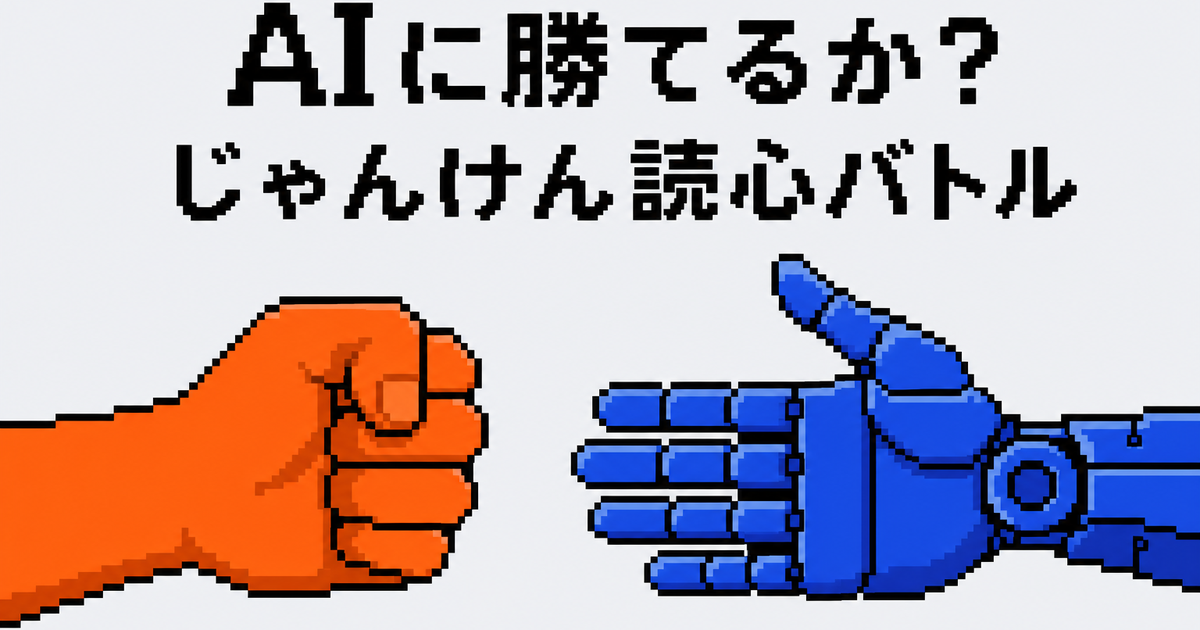
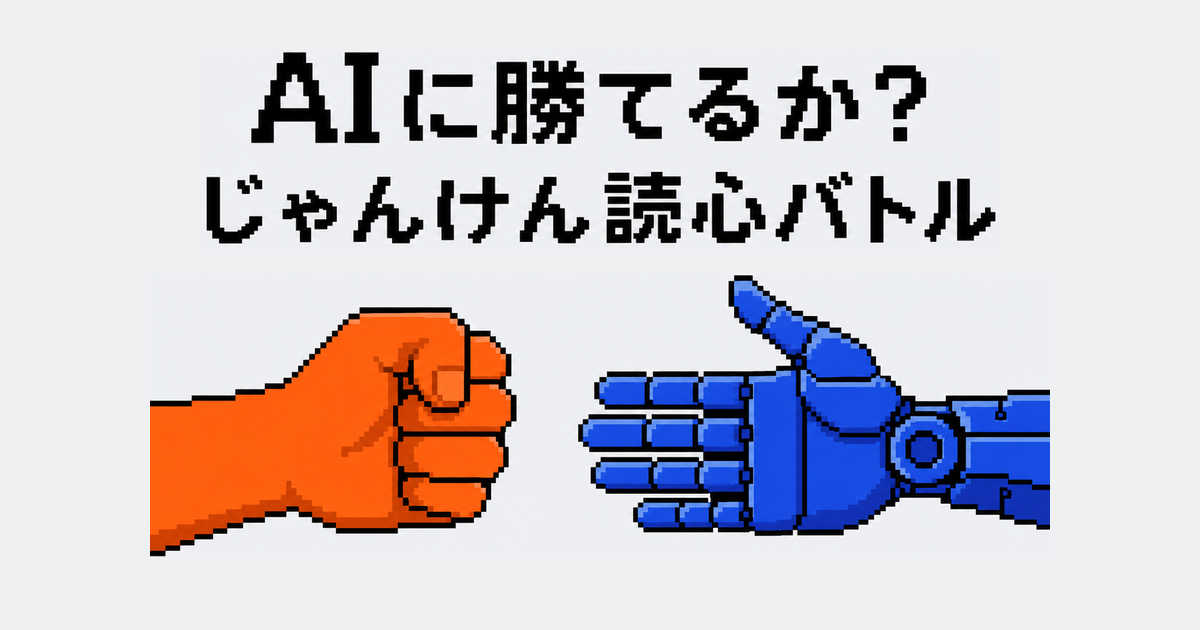
OGP画像の要素配置に安全マージンを確保しSNSでの切れを防止
- タイトル/サブタイトルと拳・ロボットハンドを縮小・中央寄せで再構成
- 上下左右それぞれ画像サイズの8%(上下50px/左右96px)の
  安全マージン内にすべての要素が収まるよう配置
  (実測: 左右150px、上52px、下73px)
- サイズは1200x630のまま、配色(--you/--ai)は変更なし
- og:imageのURLを?v=3から?v=4に更新しキャッシュを回避

Claude-Session: https://claude.ai/code/session_01EN7rUpfp6YhwvyMrEP17WE

diff --git a/index.html b/index.html
@@ -10,7 +10,7 @@
 <meta property="og:description" content="AIがあなたの癖を学習して手を読んでくる。20戦で勝ち越せるか?">
 <meta property="og:type" content="website">
 <meta property="og:url" content="https://8ega4.github.io/ai-kateru-ka/">
-<meta property="og:image" content="https://8ega4.github.io/ai-kateru-ka/images/ogp.png?v=3">
+<meta property="og:image" content="https://8ega4.github.io/ai-kateru-ka/images/ogp.png?v=4">
 <meta property="og:image:width" content="1200">
 <meta property="og:image:height" content="630">
 <meta name="twitter:card" content="summary_large_image">